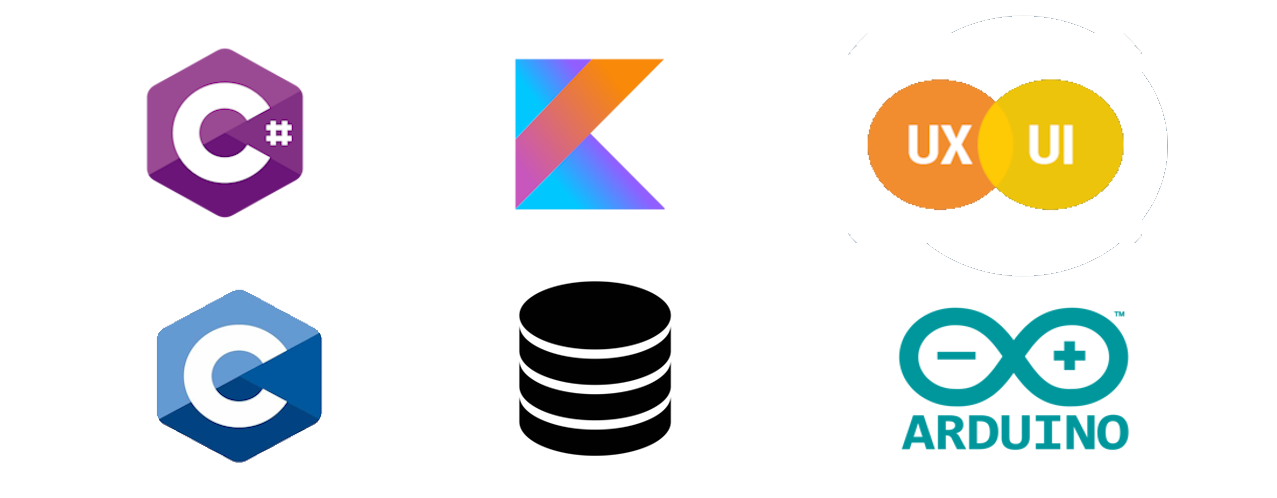
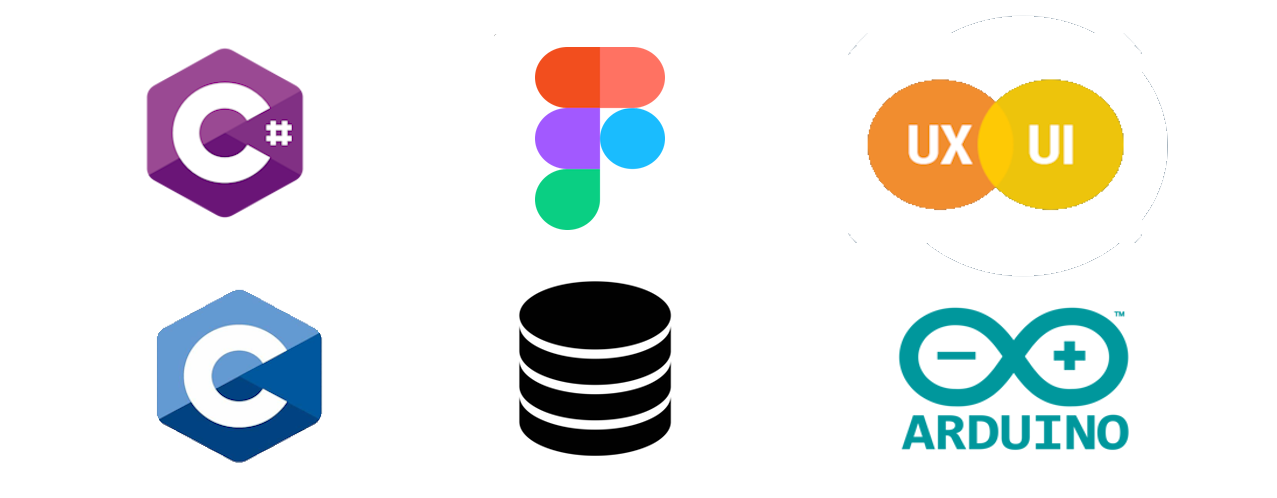
Melhores cores

Changed region(s): [[0.397, 0.0904, 0.5192, 0.4819]]

diff --git a/index.html b/index.html
@@ -120,7 +120,7 @@
             </div>
 
             <div class="principal-texto principal-section">
-                <p>Algumas das tecnologias que conheço<br>💠HTML & CSS<br>💠Javascript<br>💠Java<br>💠Angular<br>💠Git<br>💠Flutter</p>
+                <p>Algumas das tecnologias que conheço<br>💠HTML & CSS<br>💠Javascript<br>💠Svelte<br>💠Flutter<br>💠Java<br>💠Kotlin</p>
             </div>
 
             <div class="principal-titulo principal-section">
@@ -140,7 +140,7 @@
             </div>
 
             <div class="principal-texto principal-section">
-                <p>Algumas tecnologias que também tive leve conhecimento:<br>🔺C<br>🔺C#<br>🔺Kotlin<br>🔺Banco de Dados<br>🔺UX UI<br>🔺Arduino</p>
+                <p>Algumas tecnologias que também tive leve conhecimento:<br>🔺C<br>🔺C#<br>🔺Figma<br>🔺Banco de Dados<br>🔺UX UI<br>🔺Arduino</p>
             </div>
 
             <div class="principal-titulo principal-section">

diff --git a/style.css b/style.css
@@ -1,8 +1,8 @@
 
 :root{
-    --background-color: linear-gradient(90deg, rgb(44, 54, 57), rgb(63, 78, 79));
-    --border-color:rgb(162, 123, 92);
-    --font-color:rgb(220, 215, 201);
+    --background-color:  rgb(5, 59, 80);
+    --border-color:rgb(100, 204, 197);
+    --font-color:rgb(238, 238, 238);
 }
 
 
